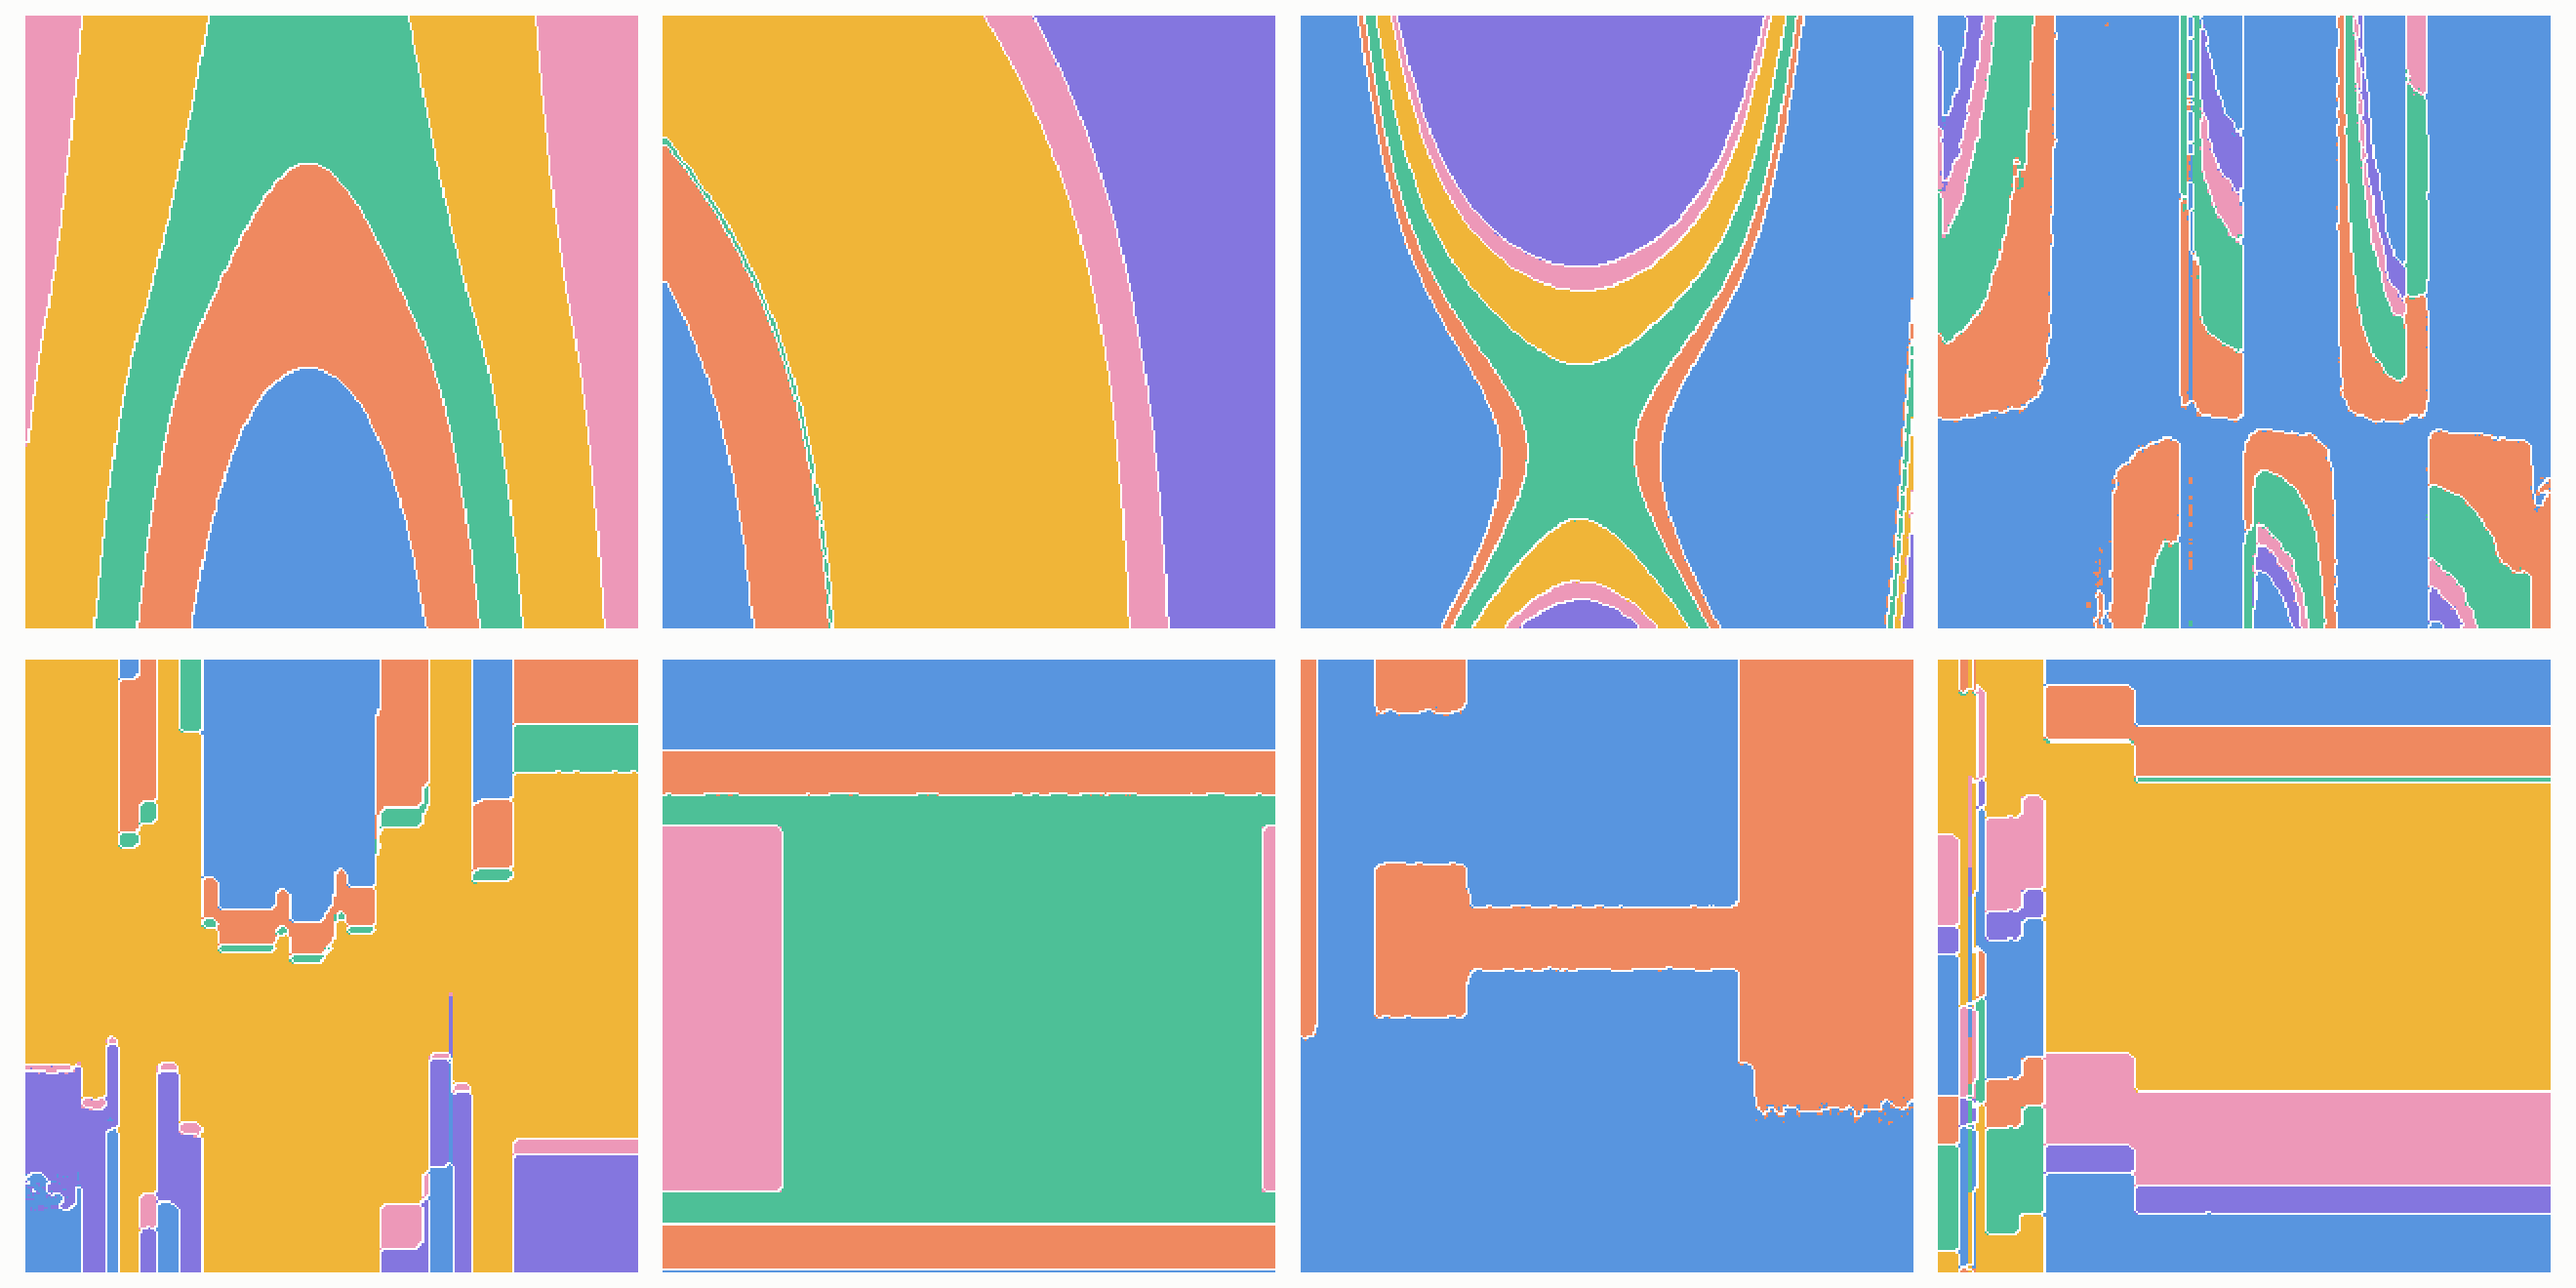
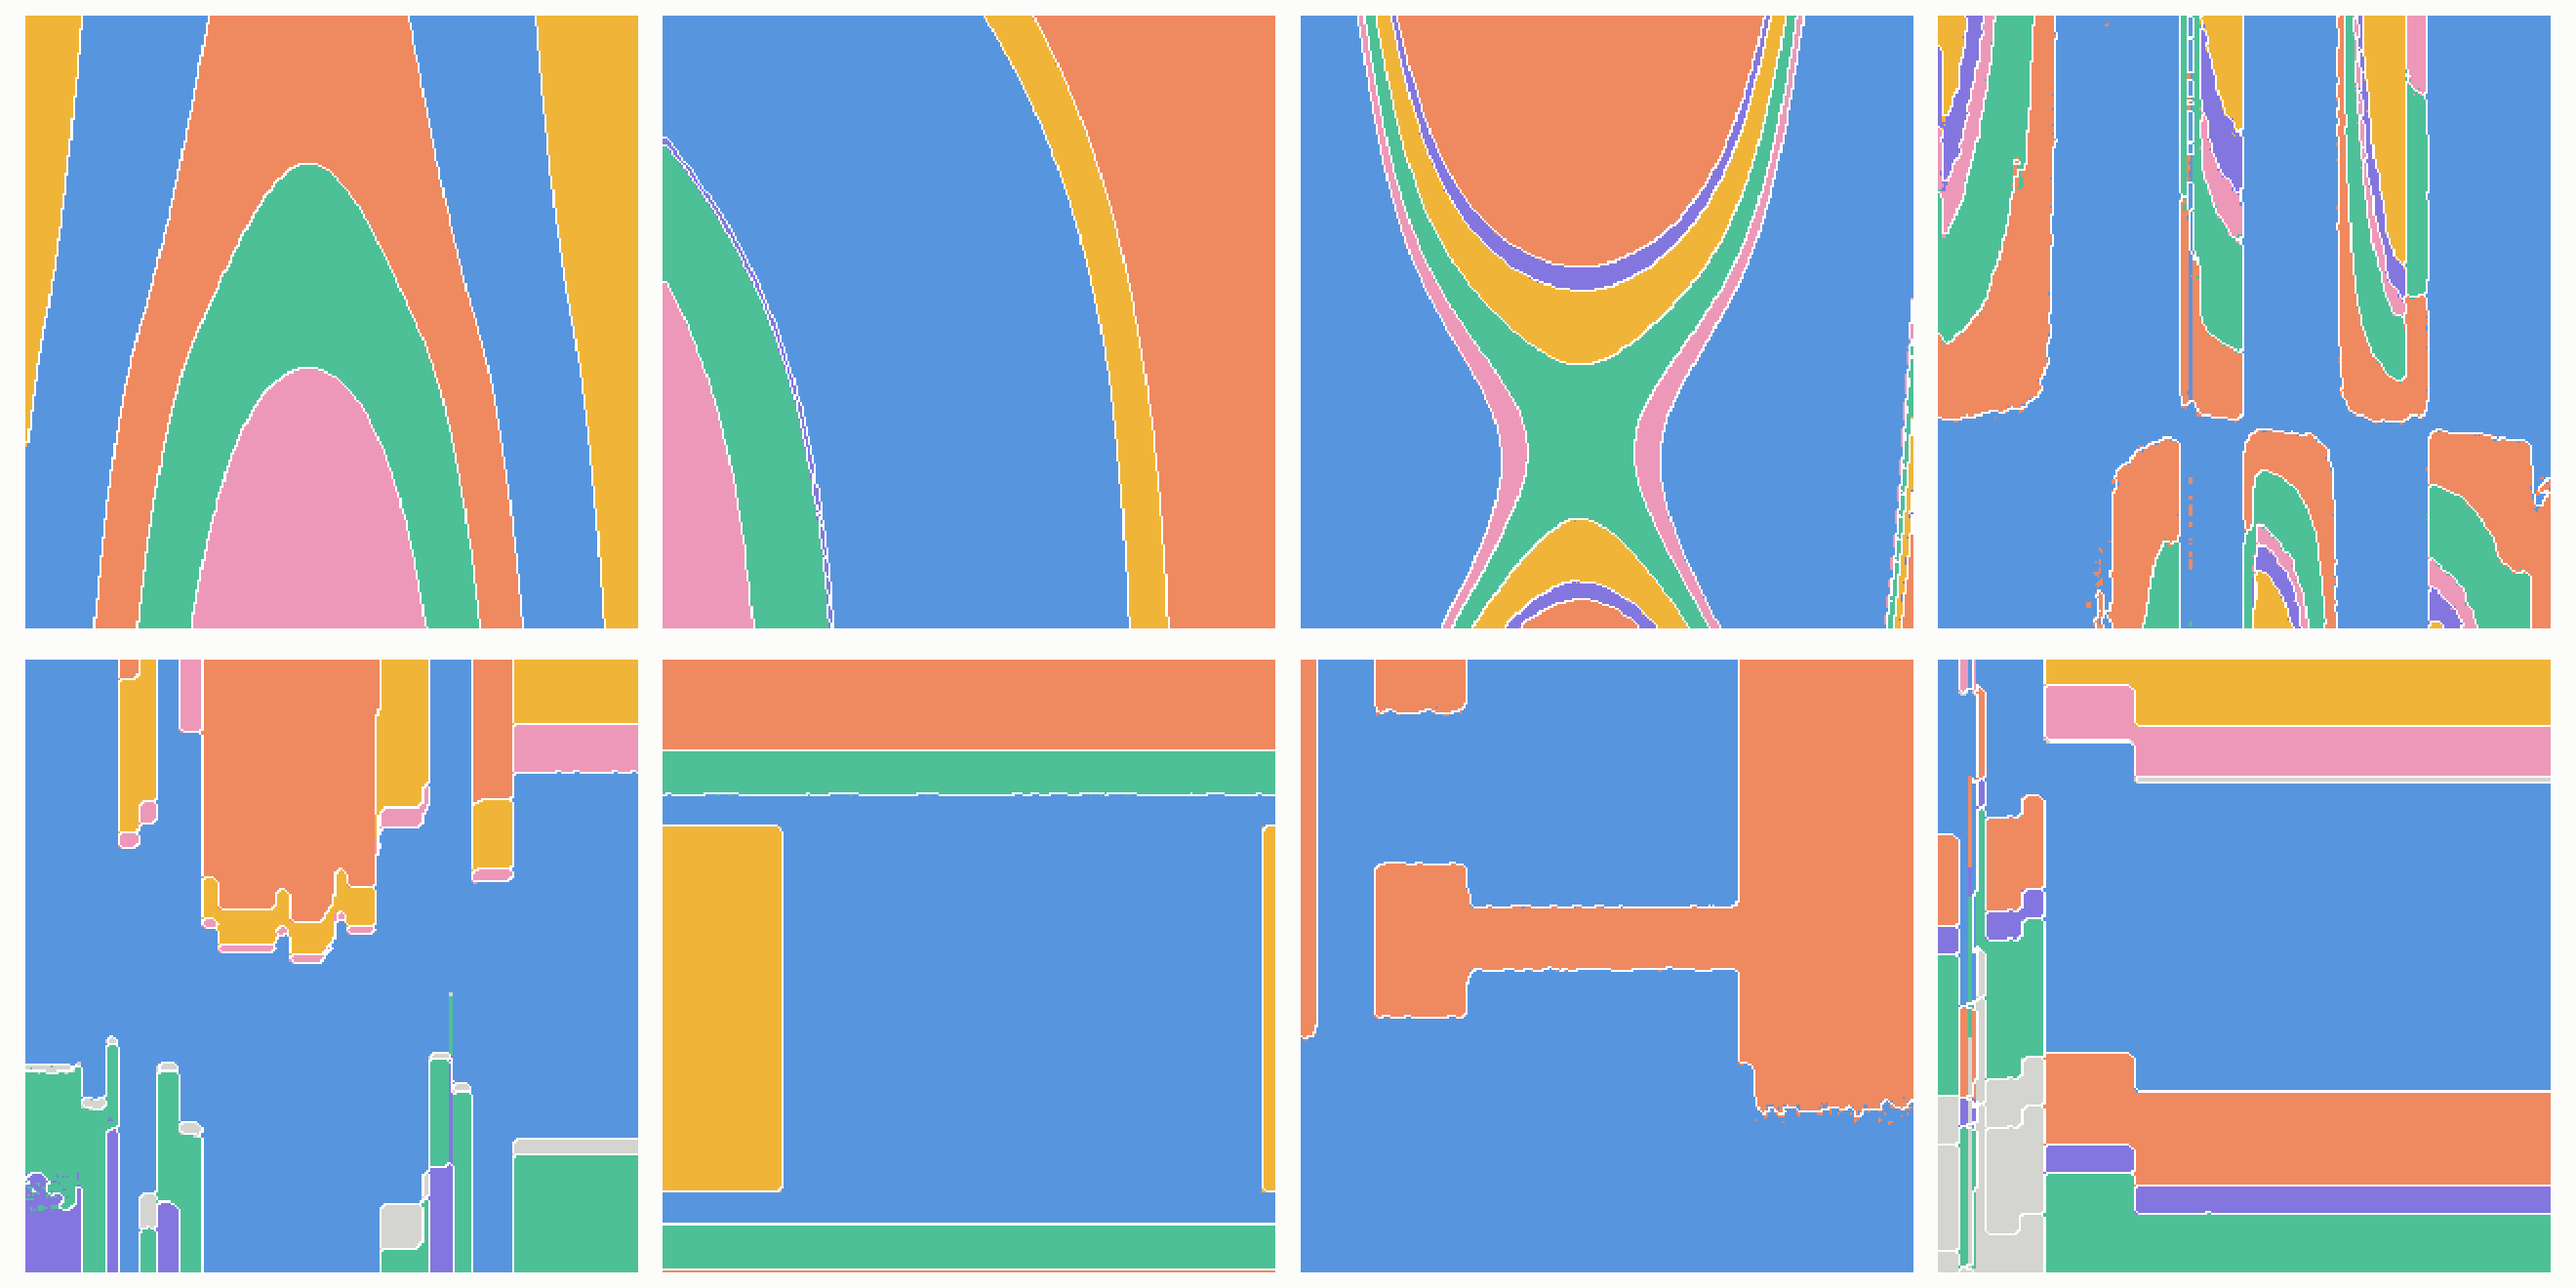
v2: decision boundaries: typical levels, ranked colours, recipes check
Categorical sources are held at their most common level instead of an all-zeros median, levels
are the union over draws, and the six largest classes get colours with the rest grey. matplotlib
joins the pixi environment as a PyPI dependency (numpy unchanged), recipes draw one table in quick
mode, and the package job installs matplotlib for it. README wording and runtimes corrected.

diff --git a/examples/figures/decision_boundaries.py b/examples/figures/decision_boundaries.py
@@ -4,24 +4,31 @@ For each table seed, takes the first categorical column with two numeric scalar 
 whose map has 2 to 6 classes, none above 80%, changes along both axes and little speckle. The two
 causes are held on a grid over their 2-98% quantiles and every other source node at its median, so
 the map is the mechanism's own boundary, not a fitted classifier; each cell shows the class drawn
-most often over several data seeds. Pairs are searched on a coarse grid and drawn on a fine one.
-Needs matplotlib; takes about two minutes for the default eight seeds."""
+most often over several data seeds. A categorical source is held at its most common level instead
+of a median. Pairs are searched on a coarse grid and drawn on a fine one, and the six largest
+classes of each map get colours, the rest a neutral grey. Needs matplotlib; takes under two minutes
+for the default eight seeds, and PLUREL_QUICK=1 draws one table on the coarse grid."""
 
 import argparse
 import itertools
+import os
 
 import matplotlib
 
 matplotlib.use("Agg")
 import matplotlib.pyplot as plt
 import numpy as np
+import pandas as pd
 from matplotlib.colors import to_rgb
 
 from plurel import TablePrior
 
 SURFACE = "#fcfcfb"
 SERIES = ["#2a78d6", "#eb6834", "#1baf7a", "#eda100", "#e87ba4", "#6250d6"]
-SEARCH, DRAW = (120, 15), (300, 25)
+OTHER = "#c9c9c4"
+QUICK = os.environ.get("PLUREL_QUICK") == "1"
+SEARCH = (120, 15)
+DRAW = SEARCH if QUICK else (300, 25)
 
 
 def majority(labels: np.ndarray, size: int) -> np.ndarray:
@@ -41,22 +48,23 @@ def ancestors(table, name: str) -> set[str]:
     return found
 
 
+def typical(table, name: str, values: np.ndarray) -> np.ndarray:
+    if table.nodes[name].onehot:
+        return np.eye(values.shape[1])[np.bincount(values.argmax(1)).argmax()]
+    return np.median(values, axis=0)
+
+
 def classes(table, column, a, b, natural, sources, grid, draws) -> np.ndarray:
     xs, ys = (np.linspace(*np.quantile(natural[n][:, 0], [0.02, 0.98]), grid) for n in (a, b))
-    held = {
-        s: np.repeat(np.median(natural[s], axis=0, keepdims=True), grid * grid, axis=0)
-        for s in sources
-    }
+    held = {s: np.tile(typical(table, s, natural[s]), (grid * grid, 1)) for s in sources}
     held[a], held[b] = (v.reshape(-1, 1) for v in np.meshgrid(xs, ys))
-    levels = None
-    votes = []
-    for seed in range(draws):
-        values = table.sample_with_latents(grid * grid, seed=seed, held=held)[0][column].astype(
-            "category"
-        )
-        levels = list(values.cat.categories) if levels is None else levels
-        votes.append(values.cat.set_categories(levels).cat.codes.to_numpy())
-    counts = np.stack([(np.stack(votes) == c).sum(0) for c in range(len(levels))])
+    draws = [
+        table.sample_with_latents(grid * grid, seed=seed, held=held)[0][column]
+        for seed in range(draws)
+    ]
+    levels = sorted(set().union(*(set(d.dropna()) for d in draws)))
+    votes = np.stack([pd.Categorical(d, categories=levels).codes for d in draws])
+    counts = np.stack([(votes == c).sum(0) for c in range(len(levels))])
     mode = np.where(counts.max(0) > 0, counts.argmax(0), -1)
     return mode.reshape(grid, grid)
 
@@ -92,10 +100,13 @@ def boundary(seed: int) -> np.ndarray | None:
 
 
 def image(labels: np.ndarray, tint: float = 0.22) -> np.ndarray:
-    palette = np.array([to_rgb(c) for c in SERIES]) * (1 - tint) + tint
     labels = majority(labels, 3)
+    known = labels >= 0
+    order = np.argsort(-np.bincount(labels[known]), kind="stable")
+    colours = [to_rgb(SERIES[r]) if r < len(SERIES) else to_rgb(OTHER) for r in np.argsort(order)]
+    palette = np.array(colours) * (1 - tint) + tint
     rgb = np.full((*labels.shape, 3), to_rgb(SURFACE))
-    rgb[labels >= 0] = palette[labels[labels >= 0] % len(SERIES)]
+    rgb[known] = palette[labels[known]]
     smooth = majority(labels, 5)
     edge = np.zeros(labels.shape, bool)
     edge[:, 1:] |= smooth[:, 1:] != smooth[:, :-1]
@@ -105,7 +116,8 @@ def image(labels: np.ndarray, tint: float = 0.22) -> np.ndarray:
 
 
 parser = argparse.ArgumentParser(description=__doc__.splitlines()[0])
-parser.add_argument("--seeds", type=int, nargs="+", default=[45, 102, 225, 115, 47, 87, 123, 262])
+SEEDS = [102] if QUICK else [45, 102, 225, 115, 47, 87, 123, 262]
+parser.add_argument("--seeds", type=int, nargs="+", default=SEEDS)
 parser.add_argument("--out", default="decision_boundaries.png")
 args = parser.parse_args()
 

diff --git a/scripts/run_recipes.py b/scripts/run_recipes.py
@@ -1,4 +1,4 @@
-"""Run the concept examples, domain recipes and analyses, and realism.py's self-test, each in its
+"""Run the concept examples, domain recipes, analyses and figures, and realism.py's self-test, each in its
 own isolated process with the Python running this script, from a temporary directory: the plurel
 it imports is whichever that Python has installed, an editable checkout or a wheel. PLUREL_QUICK=1
 asks the analyses for their small configuration. Exits non-zero on the first example that fails."""
@@ -11,7 +11,7 @@ from pathlib import Path
 
 examples = Path(__file__).resolve().parents[1] / "examples"
 recipes = []
-for directory in ("concepts", "generation", "analysis"):
+for directory in ("concepts", "generation", "analysis", "figures"):
     found = sorted(p for p in (examples / directory).glob("*.py") if not p.name.startswith("_"))
     if not found:
         sys.exit(f"no examples found in examples/{directory}")

diff --git a/examples/README.md b/examples/README.md
@@ -23,8 +23,9 @@
   `pixi run recipes` runs only its `--self-test`, a generated stand-in with no download.
 - [`figures/`](figures/): [`decision_boundaries.py`](figures/decision_boundaries.py) draws the
   README's decision boundaries of tables from `TablePrior`, the class each cell of a grid over two
-  numeric causes gets most often. It needs matplotlib, which plurel does not require, so
-  `pixi run recipes` leaves it out, and runs in about a minute.
+  numeric upstream nodes gets most often. It needs matplotlib, which plurel does not require but the
+  pixi environment has: `pixi run python examples/figures/decision_boundaries.py --out boundaries.png`
+  runs in under two minutes, and `pixi run recipes` draws one table (`PLUREL_QUICK=1`).
 - [`generation/`](generation/): standalone v2 recipes that compose the generation API around a
   domain, each checking the relationships it declares. Each runs on its own from the installed
   package with embedded synthetic fixtures, no data or network:

diff --git a/README.md b/README.md
@@ -288,9 +288,9 @@ database = prior.realize(seed=0)
 frames = database.sample(prior.rows(database, seed=0), seed=0)
 ```
 
-Each drawn table is its own causal mechanism. Holding two numeric causes of a categorical column
-on a grid, with the table's other inputs at their medians, shows the class each cell gets most
-often; eight tables from `TablePrior`, drawn by
+Each drawn table is its own causal mechanism. Holding two numeric nodes upstream of a categorical
+column on a grid, with the table's other sources at typical values, shows the class each cell gets
+most often; eight tables from `TablePrior`, drawn by
 [`decision_boundaries.py`](examples/figures/decision_boundaries.py):
 
 <img src="docs/static/images/decision_boundaries.png" alt="Decision boundaries of eight tables drawn by TablePrior"/>
